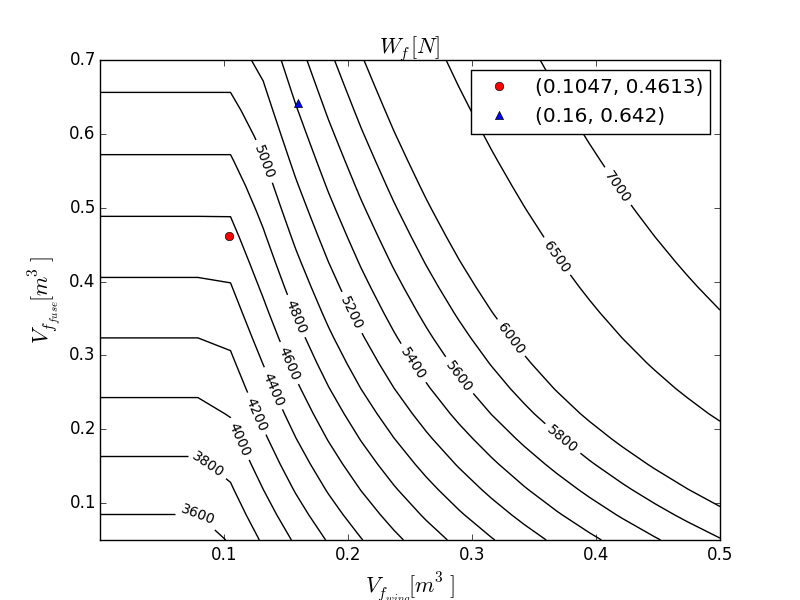
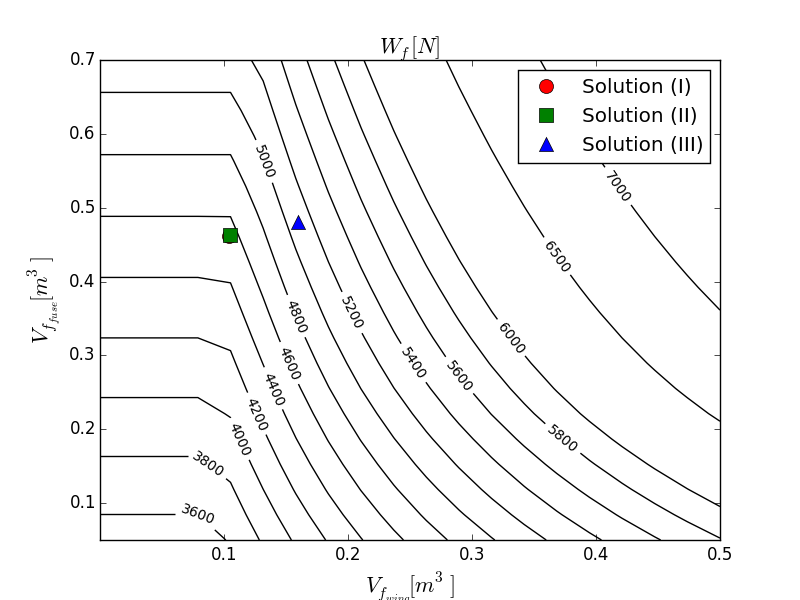
Contour plotting

Changed region(s): [[0.5625, 0.09, 0.9062, 0.3], [0.2812, 0.36, 0.3125, 0.42], [0.3438, 0.36, 0.375, 0.39]]

diff --git a/SimPleAC/plot_contours.py b/SimPleAC/plot_contours.py
@@ -12,6 +12,7 @@ sol = sa.solve(skipsweepfailures=True)
 Vfw = sol('V_f_wing')
 Vff = sol('V_f_fuse')
 cost = sol['cost']
+#cost = sol('A')
 
 X = Vfw.reshape(n,n)
 Y = Vff.reshape(n,n)
@@ -20,13 +21,17 @@ Z = cost.reshape(n,n)
 f, ax = plt.subplots()
 levels = [3600, 3800, 4000, 4200, 4400, 4600, 4800,
           5000, 5200, 5400, 5600, 5800, 6000, 6500, 7000]
+#levels = [4, 5, 6, 7, 8, 9, 10, 11, 12]
 CS = plt.contour(X, Y, Z, levels=levels, colors='k')
 plt.clabel(CS, inline=1, fontsize=10, fmt='%1.0f')
-ax.plot(0.1047, 0.4613, 'o', color='r')
-ax.plot(0.16, 0.642, '^', color='b')
+ax.plot(0.1047, 0.4613, 'o', color='r', markersize=10)
+ax.plot(0.1050, 0.4630, 's', color='g', markersize=10)
+ax.plot(0.1602, 0.4813, '^', color='b', markersize=10)
 ax.set_xlabel(r'$V_{f_{wing}} [m^3]$', fontsize=16)
 ax.set_ylabel(r'$V_{f_{fuse}} [m^3]$', fontsize=16)
 ax.set_title(r'$W_f [N]$', fontsize=16)
-ax.legend(['(0.1047, 0.4613)', '(0.16, 0.642)'], numpoints=1)
+ax.legend(['Solution (I)', 'Solution (II)', 'Solution (III)'], numpoints=1, loc="best")
+#ax.set_xscale("log")
+#ax.set_yscale("log")
 f.savefig('contour1.png')
 plt.show()
